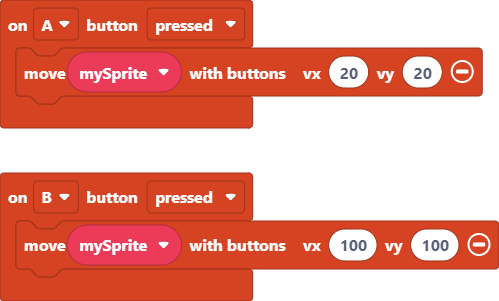
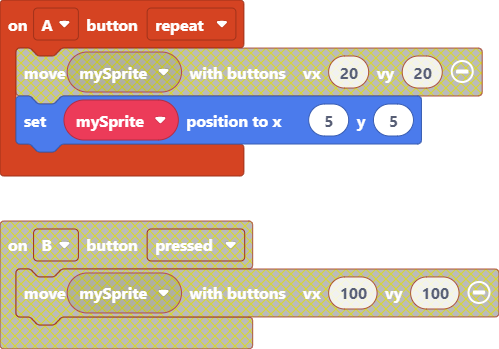
Trying ON button A pressed / released / repeat

diff --git a/main.ts b/main.ts
@@ -1,8 +1,5 @@
-controller.B.onEvent(ControllerButtonEvent.Pressed, function () {
-    controller.moveSprite(mySprite, 100, 100)
-})
-controller.A.onEvent(ControllerButtonEvent.Pressed, function () {
-    controller.moveSprite(mySprite, 20, 20)
+controller.A.onEvent(ControllerButtonEvent.Repeated, function () {
+    mySprite.setPosition(5, 5)
 })
 let mySprite: Sprite = null
 mySprite = sprites.create(img`
